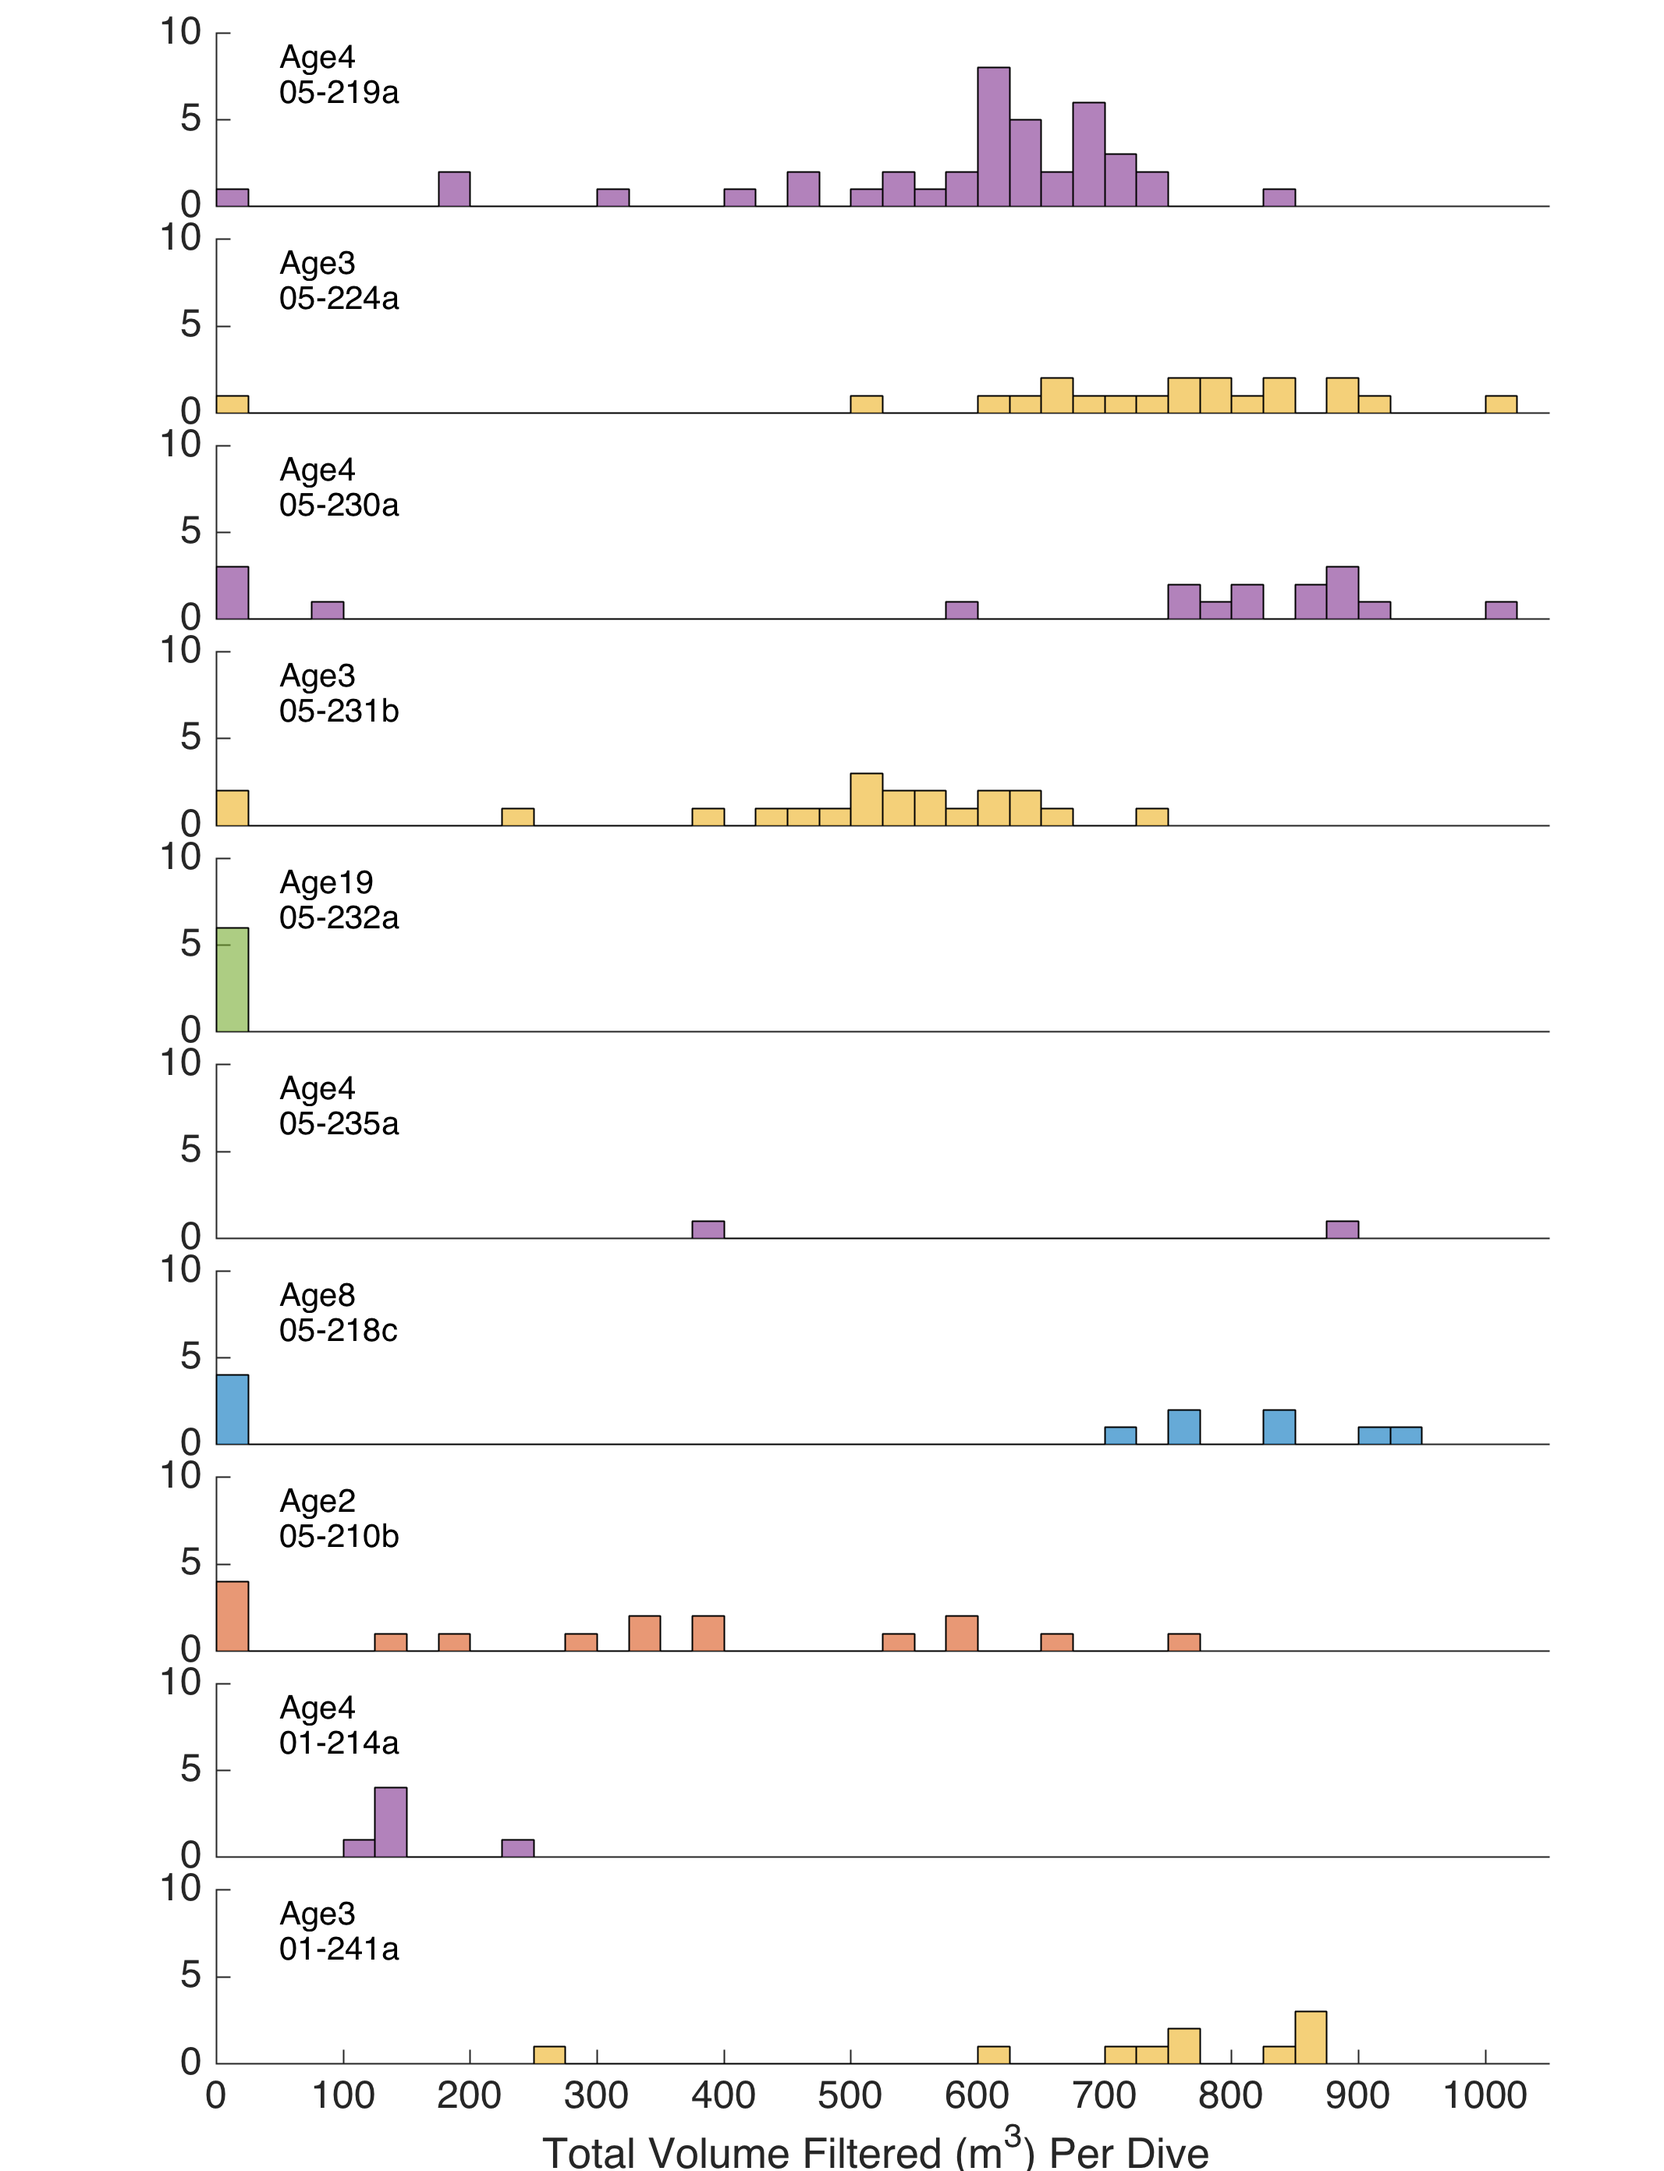
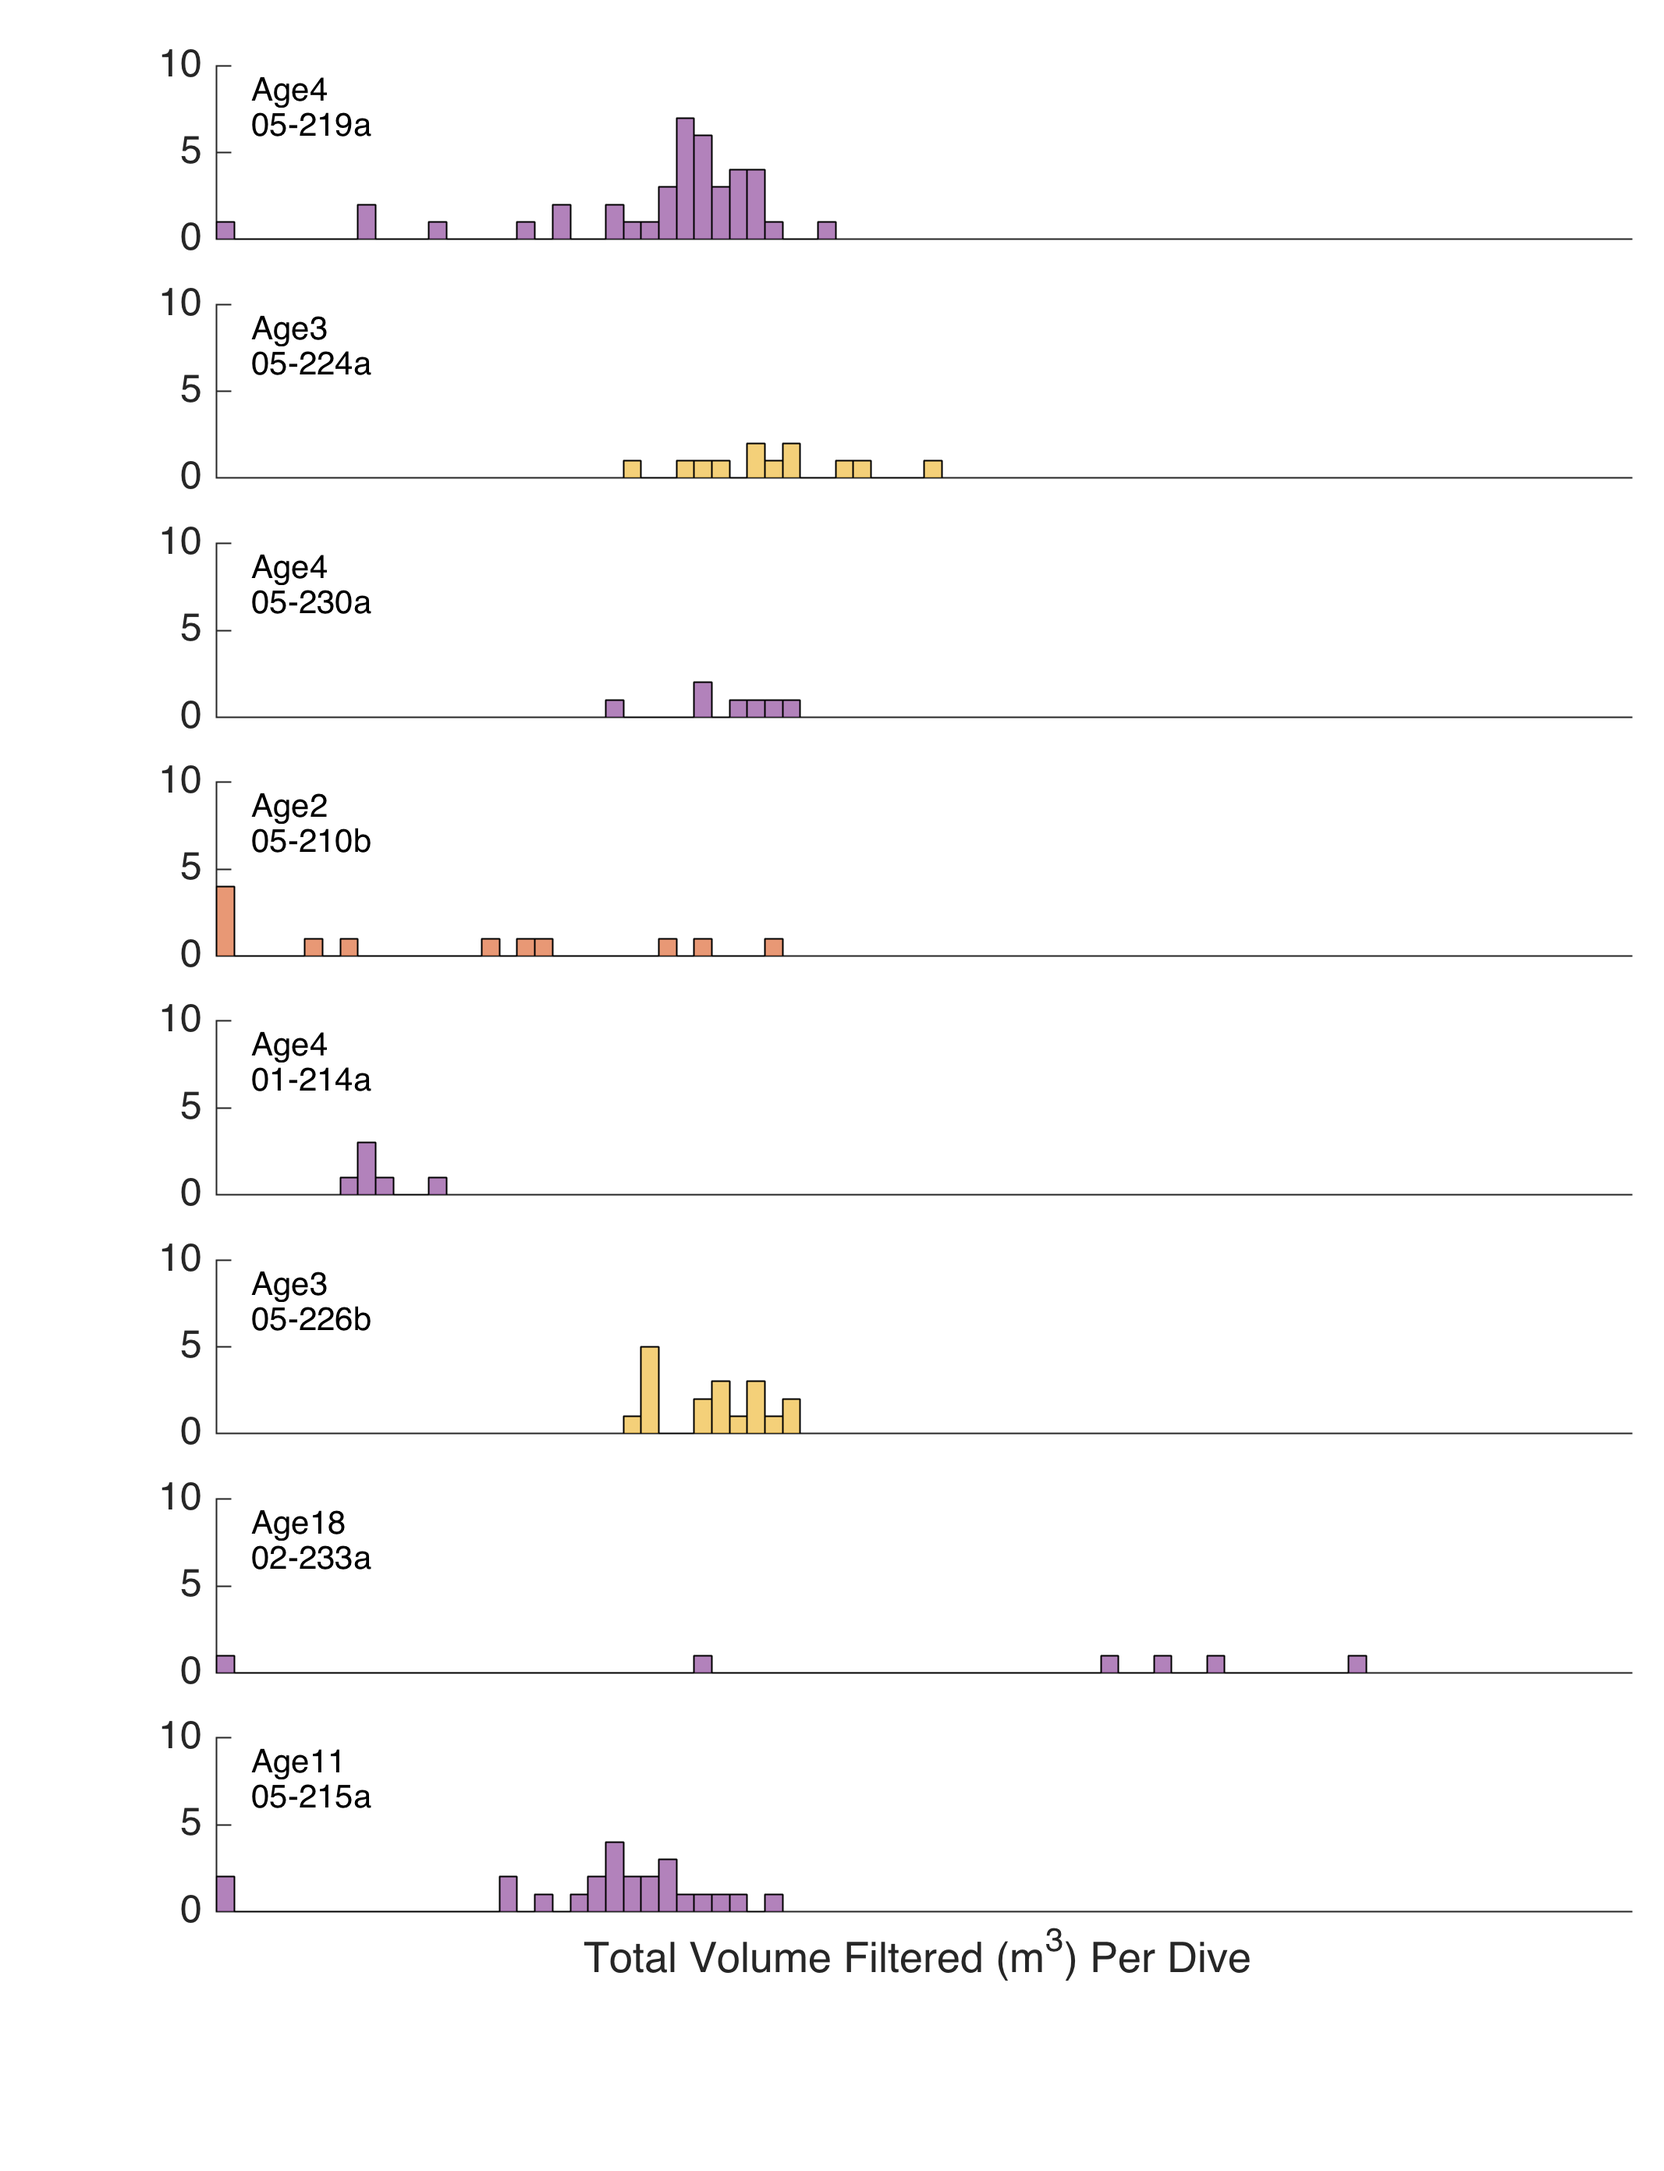
Remove playback dives

diff --git a/NARW_totalVolume.m b/NARW_totalVolume.m
@@ -14,17 +14,17 @@ alldur = []; % all dive durations
 alldepth = []; % all dive depths
 tagid = []; % tag ID counter
 NF = []; % non-foraging dives
-for i = 1:length(tags)
-    tag = tags{i};
-    c = get(gca,'colororder'); % get color order
-    c = repmat(c,ceil(max([tags{:,6}])/size(c,1)),1);    % repeat color order for number of dives
+for i = 1:size(tags,1)
+    tag = tags{i,1};
+    col = get(gca,'colororder'); % get color order
+    col = repmat(col,ceil(max([tags{:,6}])/size(col,1)),1);    % repeat color order for number of dives
     
     % import flow speed for the tag
     load(['/Users/julievanderhoop/Dropbox (Personal)/tag/tagdata/' tag '_flowspeed.mat'])
     ddur = T(:,2)-T(:,1); % calculate dive duration
     % calculate total volume
     vperdive = []; % clear it
-    for j = 1:length(dive)
+    for j = tags{i,9}' % over the dives in the analysis portion 
         vperdive(j) = sum(dive(j).vperblock);
         allvperdive(end+1) = vperdive(j);
         for k = 1:length(dive(j).vperblock)
@@ -48,22 +48,22 @@ for i = 1:length(tags)
         alldepth(end+1,1) = T(j,3);
     end
     
-    figure(10), subplot('position',[0.13 1.0-(i*0.095) 0.8 0.08]), hold on, box off
-    if i == 8
-        histogram(vperdive(11:end),'binwidth',25,'facecolor',c(tags{i,6},:)) % because missing first 10 dives
-    else
-        histogram(vperdive,'binwidth',25,'facecolor',c(tags{i,6},:))
-    end
+    figure(10), subplot('position',[0.13 1.0-(i*0.11) 0.85 0.08]), hold on, box off
+    
+    histogram(vperdive(tags{i,9}),'binwidth',25,'facecolor',col(tags{i,6},:))
     ylim([0 10])
     yl = get(gca,'ylim'); text(50,yl(2)*0.85,strcat('Age   ',num2str(tags{i,6})))
     text(50,yl(2)*0.65,regexprep(tag(3:end),'_','-'))
-    xlim([0 1050]),
-    if i <= 9, set(gca,'xtick',[]), end
+    
+    xlim([0 2000]),
+    if i < length(tags), set(gca,'xtick',[]), end
 end
 xlabel('Total Volume Filtered (m^3) Per Dive ')
 adjustfigurefont
 set(gcf,'position',[13     5   512   668],'paperpositionmode','auto')
 print('volfiltered_each.png','-dpng','-r300')
+
+return 
 
 NF = NF([1:17 28:31],:); % because first 10 dives of tag 8 are foraging dives but just don't have sound
 allvperdive = allvperdive([1:117 128:end]); 
